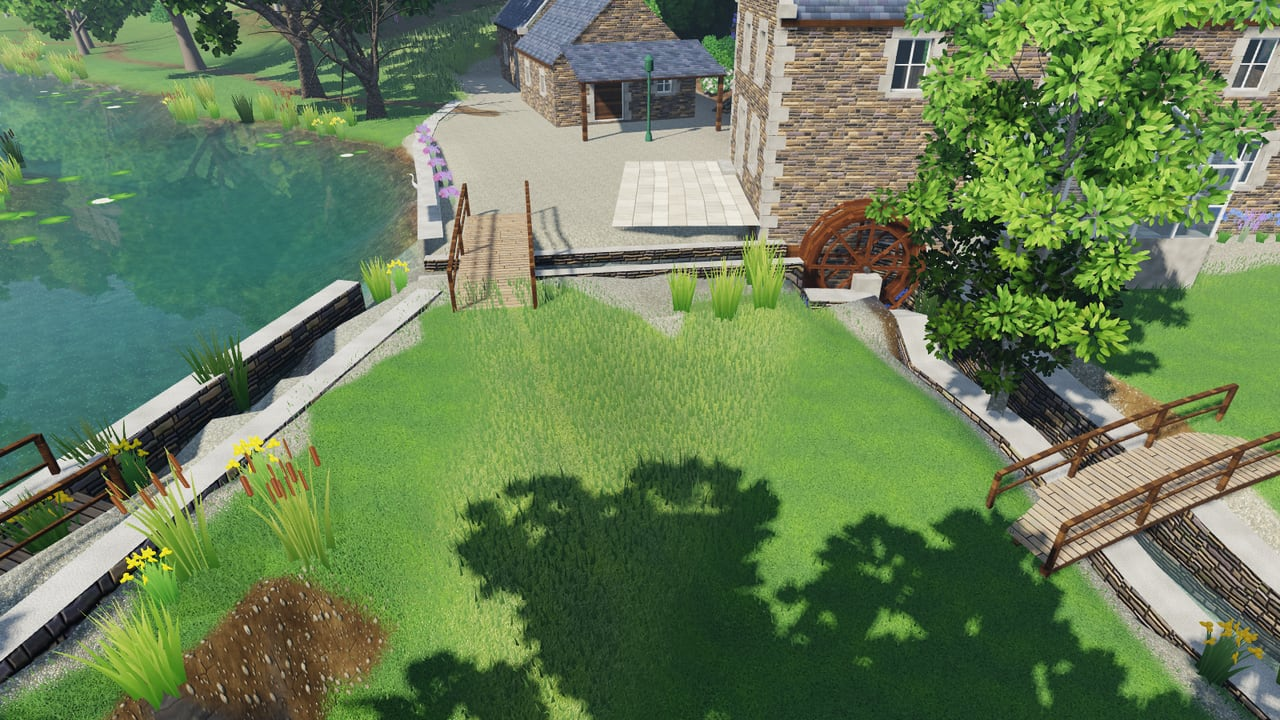
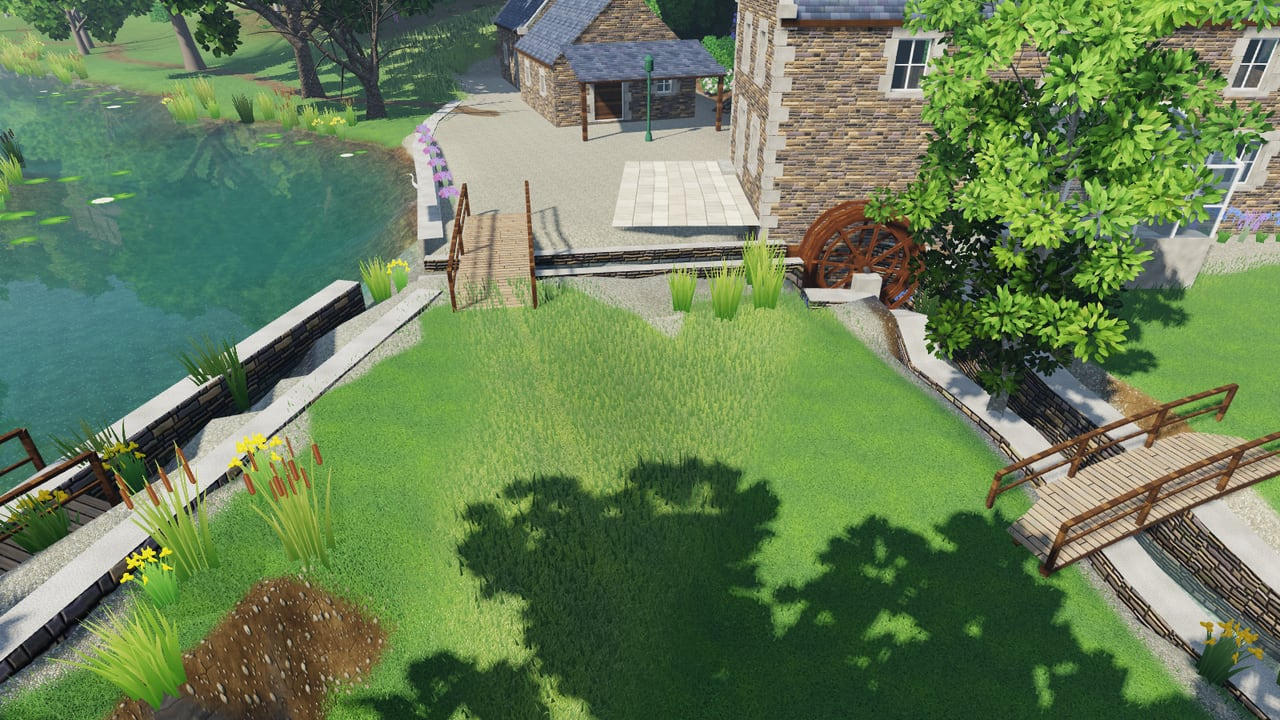
Map shows the buildings and the pier; beach huts and parasols on the sand
- The in-game map draws the roofs of the mill, the pier and its big wheel,
  and the old tree at the size of its crown.
- Beach huts stand in a row on the sand facing the sea; parasols and towels
  are on the dry sand, away from the brook's mouth.
- The sluice footbridge clears the gate piers.
- Shadow and reflection passes take alternate frames (even frame pacing);
  the adaptive controller waits longer after a failed raise and recognises
  a frame-rate cap instead of shedding quality for nothing.
- Screenshots refreshed.

Claude-Session: https://claude.ai/code/session_01QuzL1v2VSMuBpNy3gkEDNB

diff --git a/src/world/zones/pier/PierZone.js b/src/world/zones/pier/PierZone.js
@@ -30,6 +30,7 @@ export class PierZone {
     this.colliders = [];
     this.animated = [];
     this.ground = (x, z) => this.data.heightAt(x, z);
+    this._surf = new Float32Array(8);
   }
 
   build() {
@@ -177,10 +178,13 @@ export class PierZone {
   }
 
   _beach(parts) {
-    // beach huts in a row below the boardwalk, parasols and towels on the sand
+    // On the sand, seaward of the boardwalk: beach huts in a row, facing the sea, then parasols and towels.
+    // (n below points from the boardwalk towards the sea: the promenade is listed from north to south.)
     const paint = parts.get('paint'), cloth = parts.get('doubleSided');
     const samples = this.data.meta.promenade;
     const hues = [PAL.red, PAL.teal, PAL.yellow, PAL.blue, PAL.pink, PAL.orange, PAL.green];
+    const brook = this.data.meta.streams.find((q) => q.id === 'brook').samples;
+    const nearBrook = (x, z, r) => brook.some((q) => (q[0] - x) ** 2 + (q[1] - z) ** 2 < r * r);
     let n = 0;
     for (let i = 3; i < samples.length - 3; i++) {
       const p = samples[i], a = samples[i - 1], b = samples[i + 1];
@@ -188,11 +192,11 @@ export class PierZone {
       const l = Math.hypot(nx, nz); nx /= l; nz /= l;
       const dPier = Math.hypot(p[0] - PIER.rootX, p[1] - PIER.rootZ);
       // huts: two rows of twelve on either side of the pier
-      if (dPier > 22 && dPier < 78 && i % 2 === 0 && this.data.waterAt(p[0], p[1]) < -500) { // (not on the brook)
-        const hx = p[0] - nx * (PROMENADE.width / 2 + 4.2), hz = p[1] - nz * (PROMENADE.width / 2 + 4.2);
+      const hx = p[0] + nx * (PROMENADE.width / 2 + 3.4), hz = p[1] + nz * (PROMENADE.width / 2 + 3.4);
+      if (dPier > 22 && dPier < 78 && i % 2 === 0 && !nearBrook(hx, hz, 7)) {
         const gy = this.ground(hx, hz);
         const col = hues[n++ % hues.length];
-        const yaw = Math.atan2(-nx, -nz);
+        const yaw = Math.atan2(nx, nz);
         paint.place(hx, gy + 0.25, hz, yaw);
         // stilts, striped body, little gable roof, door
         paint.tint(0.9, 0.88, 0.84, 1);
@@ -218,12 +222,13 @@ export class PierZone {
         this.colliders.push({ type: 'circle', x: hx, z: hz, r: 1.25 });
       }
       // parasols and towels scattered on the dry sand
-      if (i % 3 === 0 && p[1] < -40 && p[1] > -305 && dPier > 16) {
+      if (i % 2 === 1 && dPier > 14) {
         const h = Math.sin(i * 12.9898) * 43758.5453; const r = h - Math.floor(h);
-        const off = PROMENADE.width / 2 + 6.5 + r * 8;
-        const px = p[0] - nx * off, pz = p[1] - nz * off;
+        const off = PROMENADE.width / 2 + 7.5 + r * 8.5;
+        const px = p[0] + nx * off, pz = p[1] + nz * off;
         const gy = this.ground(px, pz);
-        if (gy < 0.7) continue;
+        // dry sand only: above the swash, away from the brook's mouth
+        if (gy < 0.9 || nearBrook(px, pz, 6) || this.data.surfaceAt(px, pz, this._surf)[5] < 0.5) continue;
         const col = hues[(i * 5) % hues.length];
         cloth.place(px, gy, pz, r * 6.28, 0.12 * (r - 0.5));
         paint.place(px, gy, pz, r * 6.28, 0.12 * (r - 0.5));

diff --git a/src/world/zones/mill/MillWorks.js b/src/world/zones/mill/MillWorks.js
@@ -220,7 +220,7 @@ export class MillWorks {
     // over the sluice: from the dam to the path around the pond, just upstream of the gate (both banks are
     // at pond level there; downstream the ground falls away to the mill pool)
     const { c, fd, side } = this.sluice;
-    this._bridgeOver(parts, c.x - fd.x * 1.05, c.z - fd.z * 1.05, side.x, side.z, LEVELS.pondBig, 1.6, { camber: 0.1, posts: 3, above: 0.3, onto: 1.4, reach: 5, tint: [0.96, 0.9, 0.84] });
+    this._bridgeOver(parts, c.x - fd.x * 1.4, c.z - fd.z * 1.4, side.x, side.z, LEVELS.pondBig, 1.6, { camber: 0.1, posts: 3, above: 0.3, onto: 1.4, reach: 5, tint: [0.96, 0.9, 0.84] });
     // over the tail race, between the lawn and the mill pool
     const tail = this.stream('raceTail');
     const ti = tail.findIndex((q) => q[0] > -107.2);
